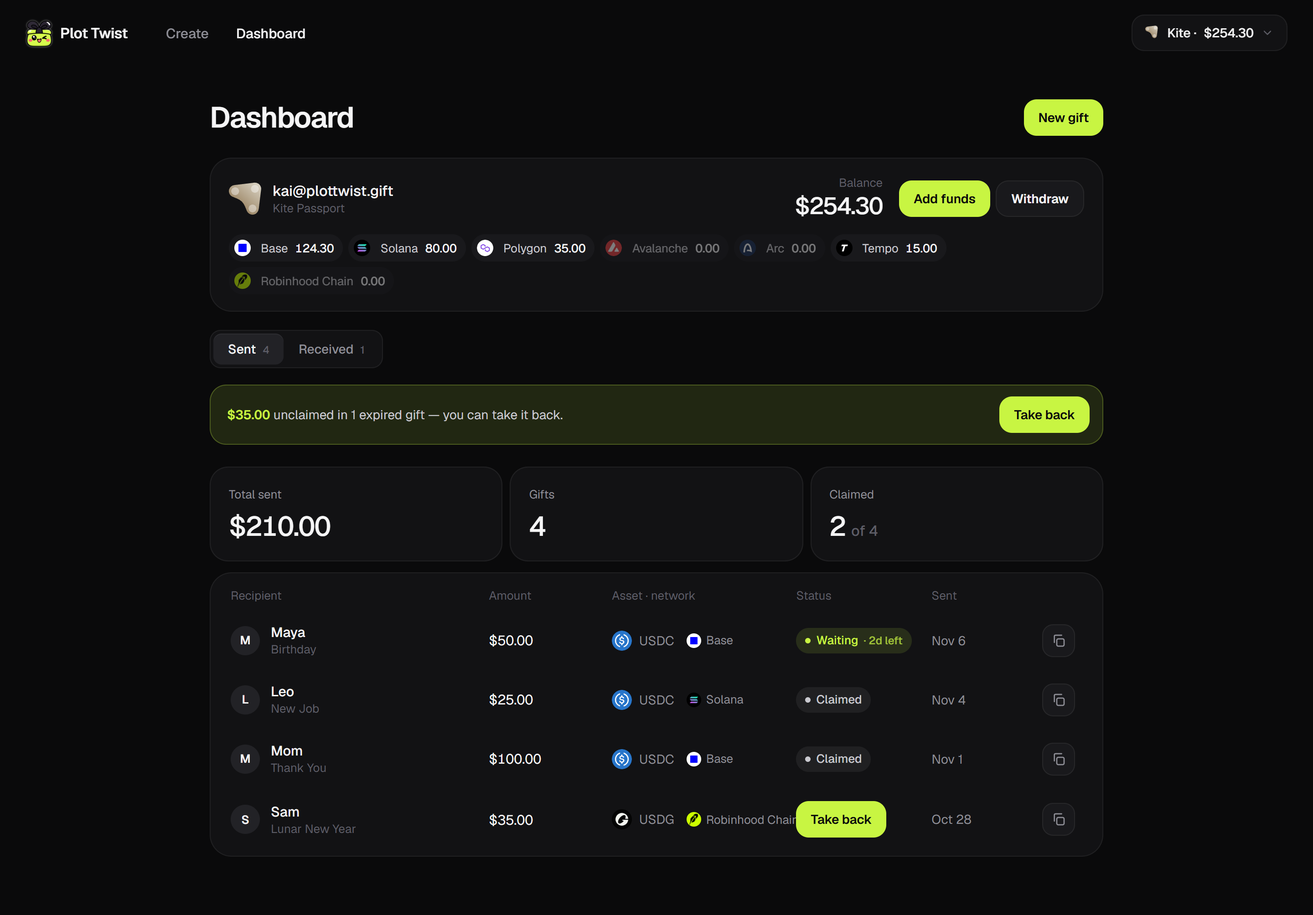
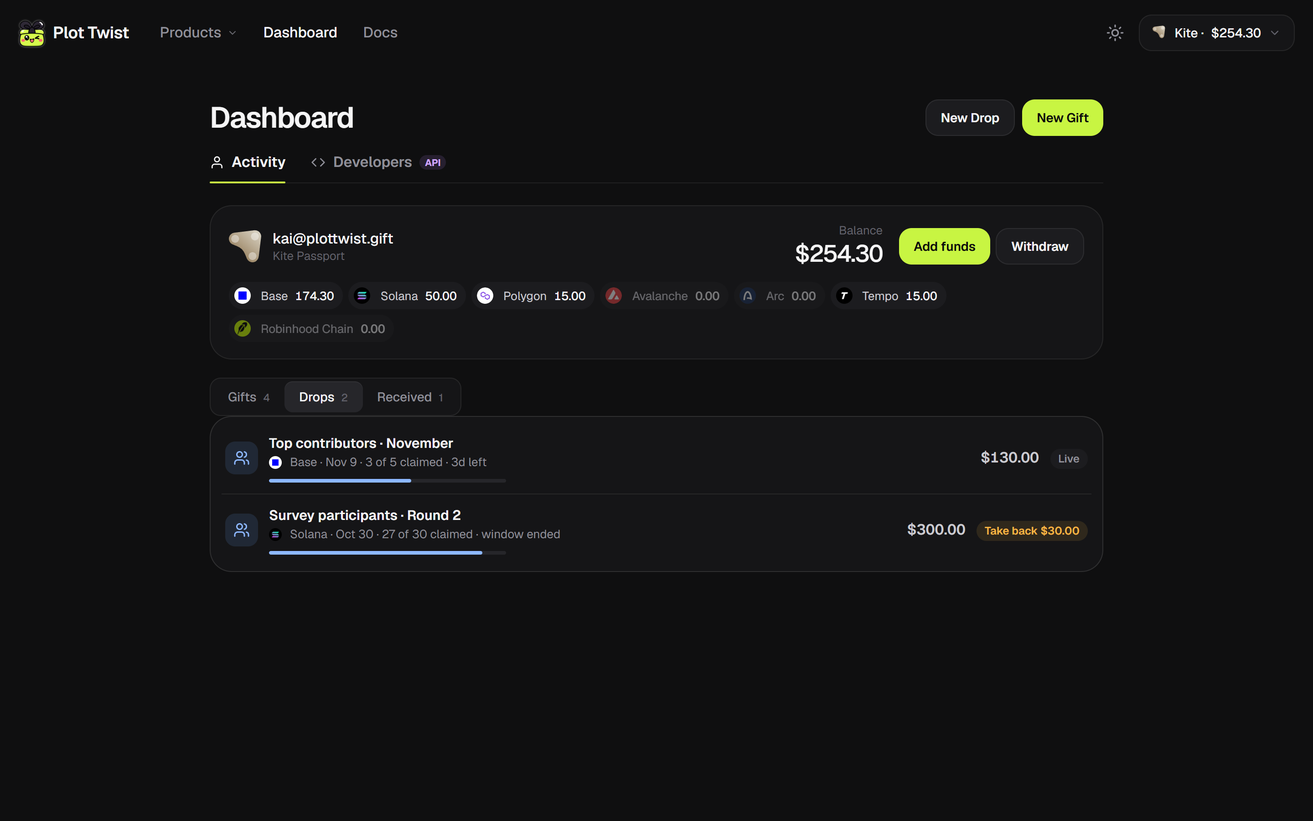
README and architecture for Gift, Drop and the Agent API
The README now leads with the three products (Gift, Drop, Agent API) and
shows the new app: home panel in both themes, the Drop table and page, the
agent approval page and Dashboard → Developers, plus the business model.
Screenshots are retaken, the architecture diagram is v2.0 (Drop and agent
flows, Redis storage, new safety rules), and the link preview and site
title use the new tagline. .env.example documents the Redis settings.

diff --git a/design/architecture-en.html b/design/architecture-en.html
@@ -2,7 +2,7 @@
 <html lang="en">
 <head>
 <meta charset="utf-8" />
-<title>Plot Twist — Architecture v1.2</title>
+<title>Plot Twist — Architecture v2.0</title>
 <link rel="preconnect" href="https://fonts.googleapis.com" />
 <link rel="preconnect" href="https://fonts.gstatic.com" crossorigin />
 <link href="https://fonts.googleapis.com/css2?family=Geist:wght@400;500;600;700&family=Geist+Mono:wght@400;500&display=swap" rel="stylesheet" />
@@ -81,6 +81,13 @@
   .vi .q { width: 22px; height: 22px; border-radius: 50%; display: grid; place-items: center; background: rgba(245, 166, 35, 0.15); color: #F5A623; font-weight: 700; font-size: 12px; }
   .foot { margin-top: 28px; font-size: 12.5px; color: var(--dim); }
   .legend span { white-space: nowrap; }
+  /* ④ flows */
+  .flows { display: grid; grid-template-columns: 1fr 1fr; gap: 16px; }
+  .flow { display: flex; flex-wrap: wrap; align-items: center; gap: 8px; margin-top: 14px; }
+  .flow span { font-size: 13px; padding: 8px 12px; border-radius: 12px; background: var(--s2); border: 1px solid var(--line2); color: var(--soft); }
+  .flow span.k { background: #F4F2EE; color: #0A0A0B; border-color: transparent; }
+  .flow span.s { border-color: rgba(200, 245, 66, 0.5); }
+  .flow em { font-style: normal; color: var(--dim); }
 </style>
 </head>
 <body>
@@ -102,7 +109,7 @@
 
   document.getElementById("page").innerHTML = `
     <div class="hd">
-      <div><h1><img src="assets/app-icon.png" alt="" />Plot Twist · Architecture v1.2</h1><p>Digital-dollar gifts on the seven networks Kite Passport holds (USDC on six, USDG on Robinhood Chain). Paid with a passkey-approved Kite transfer. One gift lives on one network.</p></div>
+      <div><h1><img src="assets/app-icon.png" alt="" />Plot Twist · Architecture v2.0</h1><p>Send money like a gift — to one person (Gift), a whole list (Drop), or through your AI agent (Agent API). Digital dollars on the seven networks Kite Passport holds; every payment is a passkey-approved Kite transfer.</p></div>
       <div class="legend"><span><i style="background:#F4F2EE"></i>Kite</span><span><i style="border:1px solid #C8F542"></i>SERV</span><span><i style="background:#222226;border:1px solid #444"></i>Plot Twist</span></div>
     </div>
 
@@ -110,7 +117,8 @@
     <div class="zones">
       <div class="zone">
         <h3>Pay · sender <small>Kai</small></h3>
-        <div class="box ours"><b>Web app (desktop + phone)</b><ul><li>Landing, Create, Dashboard</li><li>Next.js 16, one responsive design system</li></ul></div>
+        <div class="box ours"><b>Web app (desktop + phone, dark + light)</b><ul><li>Home is the app: Gift · Drop · Agent API tabs</li><li>Dashboard: Activity and Developers; Drop pages; Docs</li><li>Next.js 16 on Vercel</li></ul></div>
+        <div class="box ours"><b>Your AI agent</b><ul><li>An API key per agent; prepares Gifts and Drops through <code>/api/v1</code></li><li>The owner approves each one at <code>/approve/&lt;id&gt;</code> with their Kite passkey</li></ul></div>
         <div class="box kown"><b>${U.brand("kite")}Kite Passport</b><ul>
           <li>Email-code sign-in; new users sign up and create a passkey on Kite</li>
           <li>Stablecoin balance on each of the seven networks</li>
@@ -121,24 +129,30 @@
         <h3>Fulfil · Plot Twist platform <small>us</small></h3>
         <div class="box serv"><b><span class="brand os">${window.BRAND.openserv}</span>SERV Reasoning</b><ul>
           <li>One sentence → recipient, occasion, amount, network (if named) and a note — strict JSON schema</li>
+          <li>Drop: a pasted list or a description → a table with a note per person (batches of 25)</li>
           <li>Note rewrites; answers the recipient's questions ("What is USDC?"), no investment advice</li></ul></div>
-        <div class="box ours"><b>Gift API</b><ul>
+        <div class="box ours"><b>Gift &amp; Drop API</b><ul>
           <li>Creates the gift and asks Kite for the transfer; polls it and verifies it on-chain → <code>sealed</code></li>
-          <li>Claim with a signed message; take-back after the claim window</li>
-          <li>Dashboard: sent / received, linked wallets</li></ul></div>
+          <li>A Drop is one Kite transfer for N ordinary gifts; leftovers come back in one transfer</li>
+          <li>Claim with a signed message or a pasted address; take-back after the claim window</li></ul></div>
+        <div class="box ours"><b>Agent API</b><ul>
+          <li>Hashed, revocable keys; rate limits and usage per key per day</li>
+          <li>REST + OpenAI-style tool schema; MCP server coming soon</li>
+          <li>Free to call — the fee applies only when the owner approves and pays</li></ul></div>
         <div class="box ours"><b>Treasury (platform wallets)</b><ul>
           <li>One address per network: gift payments land here, recipients are paid from here (gas covered)</li>
           <li>Payouts are recorded the moment they're broadcast — never paid twice</li>
           <li>v2: on-chain escrow contracts</li></ul></div>
-        <div class="box ours"><b>Storage</b><ul><li>Gifts, sessions (Kite token encrypted server-side), accounts and linked wallets</li></ul></div>
+        <div class="box ours"><b>Storage · Upstash Redis</b><ul><li>Gifts, Drops, sessions (Kite token encrypted), accounts, API keys, agent requests, usage counters</li><li>Compare-and-set updates; a per-network lock so payouts never reuse a nonce</li></ul></div>
       </div>
       <div class="zone">
         <h3>Receive · recipient <small>Maya</small></h3>
-        <div class="box ours"><b>Gift page (desktop + phone)</b><ul><li>Sealed → reveal → ask SERV → connect wallet → claim</li></ul></div>
+        <div class="box ours"><b>Gift page (desktop + phone)</b><ul><li>Sealed → reveal → ask SERV → claim</li><li>Every Drop recipient gets the same page with their own note</li></ul></div>
         <div class="box ours"><b>Recipient wallet (no Kite needed)</b><ul>
           <li>EVM: MetaMask, Coinbase Wallet, Trust Wallet</li>
           <li>Solana: Phantom, Solflare, Trust Wallet</li>
-          <li>On phones, deep links open the page inside the wallet's browser</li></ul></div>
+          <li>On phones, deep links open the page inside the wallet's browser</li>
+          <li>No wallet? Paste any address, e.g. an exchange deposit address</li></ul></div>
         <div class="box ours"><b>Seven networks (all native to Kite Passport)</b><div class="nets">${nets}</div></div>
       </div>
     </div>
@@ -173,13 +187,24 @@
       </div>
     </div>
 
-    <div class="sec-t">③ Gift states & safety</div>
+    <div class="sec-t">③ A Drop, and an agent</div>
+    <div class="flows">
+      <div class="card2"><h4>Drop: pay a whole list with one approval</h4>
+        <div class="flow"><span>Paste a list or describe it</span><em>→</em><span class="s">SERV builds the table + notes</span><em>→</em><span class="k">One Kite passkey for the total</span><em>→</em><span>Verify on-chain → N links</span><em>→</em><span>Each person claims</span><em>→</em><span>Take back the rest in one transfer</span></div>
+        <p>Each person is an ordinary gift with its own 128-bit link, so claim, paste-address and take-back rules are shared. A take-back locks every open gift first, then records one payout on each of them.</p></div>
+      <div class="card2"><h4>Agent API: the agent prepares, you approve</h4>
+        <div class="flow"><span>Agent: POST /api/v1/gifts or /drops</span><em>→</em><span class="s">SERV fills the gaps</span><em>→</em><span>approveUrl</span><em>→</em><span class="k">Owner approves with Kite passkey</span><em>→</em><span>Agent: GET status → link(s)</span></div>
+        <p>Kite wallet transfers always need the owner's passkey, so a key can never move money. Autonomous budgets will come through Kite sessions once Plot Twist is in Kite's service catalog.</p></div>
+    </div>
+
+    <div class="sec-t">④ States & safety</div>
     <div class="two">
       <div class="card2">
         <h4>Gift states</h4>
         <div class="sm"><span>awaiting_payment</span><em>→</em><span>sealed</span><em>→</em><span>claiming</span><em>→</em><span>claimed</span></div>
         <div class="sm"><span>sealed</span><em>→ window over →</em><span>reclaiming</span><em>→</em><span>reclaimed</span></div>
         <div class="sm"><span>awaiting_payment</span><em>→</em><span>payment_failed</span></div>
+        <div class="sm"><em>Drop:</em><span>awaiting_payment</span><em>→</em><span>live</span><em>· agent request:</em><span>pending</span><em>→</em><span>approved</span></div>
         <p>The sender picks the claim window (24h, 3d, 7d or 30d). After it, the recipient can still claim until the sender takes the gift back from the Dashboard. Only the gift amount comes back; the fee doesn't.</p>
       </div>
       <div class="card2">
@@ -189,7 +214,8 @@
           <div class="vi"><span class="q ok">✓</span><div><b>Payments verified on-chain</b>: token contract, amount, sender's Kite address; one transfer seals one gift.</div></div>
           <div class="vi"><span class="q ok">✓</span><div><b>Claims are signed</b> by the recipient's wallet over the gift code, address and a per-gift nonce.</div></div>
           <div class="vi"><span class="q ok">✓</span><div><b>No double payouts</b>: the tx hash is saved on broadcast; a gift reopens only if the transfer provably can't land.</div></div>
-          <div class="vi"><span class="q ok">✓</span><div><b>Unguessable links</b> (128-bit codes), rate limits on SERV, sign-in and claims, link previews without amounts.</div></div>
+          <div class="vi"><span class="q ok">✓</span><div><b>API keys only prepare</b>: stored as hashes, shown once, revocable; every payment waits for the owner's passkey.</div></div>
+          <div class="vi"><span class="q ok">✓</span><div><b>Unguessable links</b> (128-bit codes), rate limits on SERV, sign-in, claims and keys; pasted addresses are screened.</div></div>
         </div>
       </div>
     </div>

diff --git a/src/app/opengraph-image.tsx b/src/app/opengraph-image.tsx
@@ -1,7 +1,7 @@
 import { ImageResponse } from "next/og";
 import { asset, OG, OG_SIZE, OgFrame, ogFonts } from "@/lib/og";
 
-export const alt = "Plot Twist — every gift deserves a plot twist";
+export const alt = "Plot Twist — send money like a gift";
 export const size = OG_SIZE;
 export const contentType = "image/png";
 
@@ -13,11 +13,11 @@ export default async function Image() {
         <div style={{ display: "flex", flex: 1, alignItems: "center", justifyContent: "space-between" }}>
           <div style={{ display: "flex", flexDirection: "column" }}>
             <div style={{ display: "flex", flexDirection: "column", fontSize: 80, fontWeight: 700, letterSpacing: -3.5, lineHeight: 1.02 }}>
-              <span>Every gift deserves</span>
-              <span style={{ color: OG.accent }}>a plot twist.</span>
+              <span>Send money</span>
+              <span style={{ color: OG.accent }}>like a gift.</span>
             </div>
             <div style={{ display: "flex", marginTop: 28, fontSize: 30, color: OG.muted, fontWeight: 500 }}>
-              One sentence in. AI designs the gift. They unwrap it from a link.
+              To one person, a whole list, or through your AI agent.
             </div>
           </div>
           {/* eslint-disable-next-line @next/next/no-img-element */}

diff --git a/src/app/layout.tsx b/src/app/layout.tsx
@@ -8,8 +8,8 @@ const geistMono = Geist_Mono({ variable: "--font-geist-mono", subsets: ["latin"]
 const appUrl =
   process.env.NEXT_PUBLIC_APP_URL ||
   (process.env.VERCEL_PROJECT_PRODUCTION_URL ? `https://${process.env.VERCEL_PROJECT_PRODUCTION_URL}` : "http://localhost:3000");
-const title = "Plot Twist — Every gift deserves a plot twist";
-const description = "Describe a gift in one sentence. AI designs it, Kite Passport pays for it, and they unwrap it from a single link.";
+const title = "Plot Twist — Send money like a gift";
+const description = "Gift links for one person, Drops for a whole list, and an API for your AI agent. SERV writes the notes, Kite Passport approves every payment, they claim with any wallet.";
 
 export const metadata: Metadata = {
   metadataBase: new URL(appUrl),

diff --git a/README.md b/README.md
@@ -1,9 +1,9 @@
 <p align="center">
-  <img src="docs/images/banner.png" alt="Plot Twist — every gift deserves a plot twist" width="100%" />
+  <img src="docs/images/banner.png" alt="Plot Twist — send money like a gift" width="100%" />
 </p>
 
 <p align="center">
-  <b>Describe a gift in one sentence. AI designs it, Kite Passport pays for it, and they unwrap it from a single link.</b>
+  <b>Send money like a gift — to one person, a whole list, or through your AI agent.<br />SERV writes the notes, Kite Passport approves every payment, they claim with any wallet.</b>
 </p>
 
 <p align="center">
@@ -22,62 +22,89 @@
 
 ## What it is
 
-Sending money to someone you care about usually feels like paying an invoice. **Plot Twist turns it into a gift.**
+Sending money to someone usually feels like paying an invoice: an address, a number, no context. Plot Twist turns it into something they open — and it works the same whether you're paying one person, a whole community, or letting your AI agent do it.
 
-You type one sentence — *"Birthday gift for my sister Maya, around $50 — she just moved to Berlin."* **SERV** turns it into a gift: who it's for, the occasion, the amount and a personal note about her new city. You approve one exact transfer with your **Kite Passport** passkey. Maya gets a link that opens **sealed**. She reveals it, can ask what USDC even is, and claims it to her own wallet. We pay the gas.
+| | | |
+|---|---|---|
+| **Gift** | One person, one gift link | *"Birthday gift for my sister Maya, around $50 — she just moved to Berlin."* SERV designs it and writes the note; it opens sealed. |
+| **Drop** | A whole list, one approval | *"$25 to each of our top contributors this month."* SERV builds the table and writes everyone's note; each person gets their own link. |
+| **Agent API** | Your AI agent | Your agent prepares Gifts and Drops through the API; you approve each payment with your Kite passkey. |
 
-- **Digital dollars on seven networks** — USDC on Base, Solana, Polygon, Avalanche, Arc and Tempo, and USDG on Robinhood Chain: every network Kite Passport holds stablecoins on. One gift lives on one network: you pay and they receive on the same network.
+- **Digital dollars on seven networks** — USDC on Base, Solana, Polygon, Avalanche, Arc and Tempo, and USDG on Robinhood Chain: every network Kite Passport holds stablecoins on.
 - **No wallet setup for the sender** — sign in to Kite with an email code (new users get a Passport on the spot), top up from MetaMask / Phantom, a card or an exchange.
-- **The recipient needs no account** — any EVM or Solana wallet, or just paste an exchange deposit address; on phones, wallet deep links open the gift inside the wallet's own browser.
-- **Unclaimed gifts aren't lost** — the sender picks a claim window (24h / 3d / 7d / 30d) and can take the gift back from the Dashboard afterwards.
+- **Recipients need no account** — any EVM or Solana wallet, or just paste an exchange deposit address. Gas is on us.
+- **Nothing is lost** — every gift and Drop has a claim window (24h–30d); whatever isn't claimed can be taken back.
 
 <p align="center">
-  <img src="docs/images/landing.png" alt="Plot Twist landing page" width="100%" />
+  <img src="docs/images/home.png" alt="Plot Twist home: the Gift panel, designed by SERV" width="100%" />
+  <br /><sub>The home page is the app — one panel with Gift, Drop and Agent API.</sub>
 </p>
 
-## The sender's side
+## Gift — one person
 
-| ① One sentence → SERV designs the gift | ② Pick the network (with your Kite balance on each) |
+| ① SERV designs it from one sentence (light theme) | ② Review: what you pay, what they get |
 |:---:|:---:|
-| <img src="docs/images/create.png" alt="SERV designs the gift" /> | <img src="docs/images/networks.png" alt="Network picker with balances" /> |
-| **③ Review: what you pay, what they get** | **④ Approve one exact transfer on Kite Passport** |
-| <img src="docs/images/review.png" alt="Review" /> | <img src="docs/images/approve.png" alt="Kite Passport approval" /> |
+| <img src="docs/images/home-light.png" alt="SERV designs the gift" /> | <img src="docs/images/review.png" alt="Review" /> |
+| **③ Approve one exact transfer on Kite Passport** | **④ Verified on-chain, sealed, ready to share** |
+| <img src="docs/images/approve.png" alt="Kite Passport approval" /> | <img src="docs/images/ready.png" alt="Gift ready: link, QR code and share buttons" /> |
 
-<p align="center">
-  <img src="docs/images/ready.png" alt="Gift ready: link, QR code and share buttons" width="70%" />
-  <br /><sub>⑤ Verified on-chain, sealed, and ready to share — link, QR code, Telegram / X / WhatsApp. Link previews never show the amount.</sub>
-</p>
-
-## The recipient's side
+The recipient opens a sealed gift, reveals it, can ask SERV what USDC even is, and claims it — with a wallet, or by pasting an exchange address.
 
 | Sealed — who it's from, not what's inside | Revealed — and SERV explains what USDC is |
 |:---:|:---:|
 | <img src="docs/images/claim-sealed.png" alt="Sealed gift" /> | <img src="docs/images/claim-revealed.png" alt="Revealed gift with SERV answer" /> |
 
 <p align="center">
+  <img src="docs/images/phone-home.png" alt="Designing a gift on a phone" width="24%" />
+  &nbsp;
   <img src="docs/images/phone-sealed.png" alt="Sealed gift on a phone" width="24%" />
   &nbsp;
   <img src="docs/images/phone-claimed.png" alt="Claimed on a phone" width="24%" />
-  &nbsp;
-  <img src="docs/images/phone-create.png" alt="Creating a gift on a phone" width="24%" />
   <br /><sub>Every screen works on phones too.</sub>
 </p>
+
+## Drop — a whole list, one approval
+
+Paying twenty people shouldn't take twenty transfers and twenty wallet addresses. Paste a list (or a CSV, or just describe it), SERV builds the table and writes a personal note for each person, and **one Kite passkey approval pays for every link**.
+
+| SERV builds the table — amounts and notes stay editable | The Drop page: who claimed, copy every link, export CSV |
+|:---:|:---:|
+| <img src="docs/images/drop.png" alt="Drop panel with the table built by SERV" /> | <img src="docs/images/drop-page.png" alt="Drop page with claim progress" /> |
+
+Each person gets an ordinary gift link (same claim, paste-address and take-back rules). After the claim window, everything that's unclaimed comes back in **one** transfer. Made for community rewards, bounties and hackathon prizes, research incentives, team bonuses and red packets.
+
+## Agent API — let your agent pay people
+
+AI agents can plan, remember and decide — but paying a person still means asking for their wallet address. With one call your agent prepares a Gift or a Drop; you get an approval link and approve it with your Kite passkey; the agent picks up the claim links and delivers them.
+
+```bash
+curl -X POST https://plot-twist-zeta.vercel.app/api/v1/gifts \
+  -H "Authorization: Bearer pt_live_…" \
+  -H "Content-Type: application/json" \
+  -d '{"brief": "Birthday gift for my sister Maya, about $50 — she just moved to Berlin"}'
+# → { "id": "…", "status": "pending_approval", "approveUrl": "https://…/approve/…", "gift": { … } }
+```
+
+| Connect an agent: REST or function calling (MCP coming soon) | You review what it prepared, then approve on Kite |
+|:---:|:---:|
+| <img src="docs/images/agent-panel.png" alt="Agent API panel" /> | <img src="docs/images/agent-approve.png" alt="Approval page for an agent request" /> |
+
+<p align="center">
+  <img src="docs/images/developers.png" alt="Dashboard → Developers: API usage, keys and recent requests" width="85%" />
+  <br /><sub>Dashboard → Developers: usage per key per day, what agents prepared and you approved, keys shown once and revocable.</sub>
+</p>
+
+- **A key can only prepare.** Kite wallet transfers always need the owner's passkey, so an API key can never move money. Keys are stored as hashes, shown once and revocable, with a rate limit each.
+- **Endpoints:** `POST /api/v1/gifts`, `POST /api/v1/drops`, `GET /api/v1/{gifts|drops}/{id}`, and OpenAI-style tool definitions at `GET /api/v1/schema`. Full reference in the app at [`/docs`](https://plot-twist-zeta.vercel.app/docs).
+- **Free to call.** Plot Twist earns its usual fee only when you approve and pay.
 
 ## Dashboard
 
 <p align="center">
-  <img src="docs/images/dashboard.png" alt="Dashboard: Kite balances, sent and received gifts, take back" width="85%" />
+  <img src="docs/images/dashboard.png" alt="Dashboard: Kite balances, gifts, Drops and received" width="85%" />
 </p>
 
-Your Kite Passport at a glance — balance on each network, **Add funds** and **Withdraw** — plus every gift you've sent (waiting, claimed, or ready to take back) and every gift you've received, whether you claimed it while signed in or on a wallet you linked.
-
-## Meet the gift box
-
-<p align="center">
-  <img src="docs/images/mascots.png" alt="The Plot Twist mascot in every mood" width="100%" />
-</p>
-
-One mascot carries the whole story: it keeps the secret while the gift is sealed, bursts open on the reveal and celebrates the claim. Every visual comes from a single design system — dark, quiet, one lime accent — shared by the app and the clickable prototype in [`design/`](design).
+**Activity** — your Kite Passport (balance per network, **Add funds**, **Withdraw**), every gift and Drop you sent with its claim status and take-back, and everything you received. **Developers** — the Agent API, shown above.
 
 ## How it works
 
@@ -94,21 +121,21 @@ sequenceDiagram
     Kai->>App: "Birthday gift for my sister Maya, ~$50 — she just moved to Berlin"
     App->>SERV: design (strict JSON schema)
     SERV-->>App: Maya · Birthday · $50 · Base · note
-    Kai->>App: connect Kite (email code), tweak, pick a claim window
+    Kai->>App: tweak, pick a claim window, Send with Kite
     App->>Kite: transfer $50 + fee → platform address (same network)
     Kite-->>Kai: approval page — one passkey tap
     Kite->>Chain: USDC transfer
     App->>Chain: verify token, amount, sender → gift sealed
     App-->>Kai: link + QR code
     Kai->>Maya: share the link
-    Maya->>App: reveal, ask SERV, sign a claim message with her wallet
+    Maya->>App: reveal, ask SERV, claim (wallet signature or pasted address)
     App->>Chain: send 50 USDC to Maya (gas covered)
-    Note over Kai,App: Not claimed in time? Kai takes it back from the Dashboard.
+    Note over Kai,App: A Drop is the same with one transfer for N links.<br/>An agent's request waits for Kai's approval first.
 ```
 
 <p align="center">
-  <img src="docs/images/architecture.png" alt="Architecture: components, end-to-end sequence, gift states and safety" width="100%" />
-  <br /><sub>Full architecture — components, the end-to-end sequence, gift states and safety. Source: <a href="design/architecture-en.html"><code>design/architecture-en.html</code></a></sub>
+  <img src="docs/images/architecture.png" alt="Architecture: components, the end-to-end gift, Drop and Agent flows, states and safety" width="100%" />
+  <br /><sub>Full architecture — source: <a href="design/architecture-en.html"><code>design/architecture-en.html</code></a></sub>
 </p>
 
 ### Where Kite Passport comes in
@@ -118,26 +145,39 @@ Plot Twist acts as the sender's agent on Kite Passport, through Kite's HTTP API 
 | | |
 |---|---|
 | **Sign in / sign up** | Email code; new emails go through Kite sign-up, where the passkey is created |
-| **Balances** | Stablecoin balance on each of the seven networks, shown while you design the gift |
-| **Pay** | One wallet transfer per gift — gift + fee to the platform address — approved with a passkey on Kite's own page. Plot Twist never holds the sender's keys |
-| **Top up** | From the sender's own wallet straight into their Kite address, by card on Kite, or from an exchange |
-| **Withdraw** | Back out of Kite to any wallet, again passkey-approved |
+| **Balances** | Stablecoin balance on each of the seven networks, shown in the panel |
+| **Pay** | One wallet transfer per Gift or Drop — amount + fee to the platform address — approved with a passkey on Kite's own page. Plot Twist never holds the sender's keys |
+| **Agents** | An agent's request becomes a payment only when the owner approves it with their own Kite session and passkey |
+| **Top up / withdraw** | From the sender's own wallet into their Kite address, by card on Kite or from an exchange; back out to any wallet, passkey-approved |
 
 ### Where SERV comes in
 
-SERV Reasoning (OpenAI-compatible API, `serv-mini`) is the gift's designer and its voice (`src/lib/serv.ts`):
+SERV Reasoning (OpenAI-compatible API, `serv-mini`, `src/lib/serv.ts`) is the designer and the voice:
 
-- **Design** — one sentence in any language → recipient, occasion, amount, network (only if you named one) and a note in your language, returned through a strict JSON schema. Everything stays editable.
-- **Rewrite** — a fresh take on the note with one tap.
-- **Ask about this gift** — answers the recipient's questions ("What is USDC?", "What can I do with it?") in the gift's context, with no investment advice.
+- **Design a gift** — one sentence in any language → recipient, occasion, amount, network (only if you named one) and a note in your language, through a strict JSON schema.
+- **Build a Drop** — a pasted list is parsed locally; a description is turned into a list; SERV writes a note for each person (in batches of 25) and names the Drop.
+- **Fill in for agents** — the Agent API lets an agent send just a brief; SERV designs the rest.
+- **Rewrite and answer** — a fresh take on a note with one tap, and answers to the recipient's questions ("What is USDC?") without investment advice.
+
+### Business model
+
+Gifts bring people in — every gift turns its recipient into someone who has seen the product work. Drops and the Agent API are where the volume is: communities, teams, researchers and agents paying people again and again.
+
+| | Fee | Minimum |
+|---|---|---|
+| Gift | 1.5% | $0.25 ($0.50 on Solana, where we pay the recipient's token-account rent) |
+| Drop | 1% per recipient | $0.10 ($0.40 on Solana) |
+| Agent API | Free to call — the Gift / Drop fee applies when the owner pays | |
+
+Claiming is always free and every payout's gas is covered.
 
 ### Safety by design
 
-- **Passkey on every transfer**, approved on Kite — one amount, one network, one recipient.
-- **Payments verified on-chain**: token contract, amount and the sender's own Kite address; one transfer can seal only one gift.
-- **Claims to a connected wallet are signed** by it (EIP-191 / ERC-1271 on EVM, ed25519 on Solana) over the gift code, the address and a per-gift nonce. **Pasted addresses** are checksum-validated and screened, so a gift can't go to the platform address, the token contract or a Solana token account.
-- **No double payouts**: a payout's hash is saved the moment it's broadcast, and a gift only reopens when the transfer provably can't land. Payouts on a network go out one at a time.
-- **Unguessable links** (128-bit codes), rate limits on SERV, Kite sign-in and claims, the Kite session encrypted server-side, and link previews without amounts.
+- **Passkey on every payment**, approved on Kite — one amount, one network, one destination.
+- **Payments verified on-chain**: token contract, amount and the sender's own Kite address; one transfer can pay for only one gift or Drop.
+- **Claims to a connected wallet are signed** (EIP-191 / ERC-1271 on EVM, ed25519 on Solana) over the gift code, the address and a per-gift nonce. **Pasted addresses** are checksum-validated and screened, so a gift can't go to the platform address, the token contract or a Solana token account.
+- **No double payouts**: a payout's hash is saved the moment it's broadcast and a gift only reopens when the transfer provably can't land. Payouts on a network go out one at a time behind a Redis lock, so instances never reuse a nonce; a Drop's take-back locks every open gift first.
+- **Unguessable links** (128-bit codes), rate limits on SERV, Kite sign-in, claims and API keys, the Kite session encrypted server-side, and link previews without amounts.
 
 ## Run it locally
 
@@ -152,23 +192,26 @@ npm run wallet:new             # SESSION_SECRET + platform EVM / Solana hot wall
 npm run dev                    # http://localhost:3000
 ```
 
-To move real money, put a little gas on the platform wallets for the networks you use (e.g. ETH on Base). Gift payments land on those wallets and payouts leave from them.
+Without Redis settings, local dev stores everything in JSON files under `data/`. In production (Vercel), set `UPSTASH_REDIS_REST_URL` / `UPSTASH_REDIS_REST_TOKEN` (or connect Upstash through Vercel's integration). To move real money, put a little gas on the platform wallets for the networks you use (e.g. ETH on Base) — payments land on those wallets and payouts leave from them.
 
 ## Project layout
 
 ```
-src/app          pages (/, /create, /dashboard, /g/[code]) and API routes
-src/lib          Kite client, SERV, gifts, treasury, chains, sessions, signatures, rate limits
-src/components   UI on the design system in src/app/styles
-design/          clickable prototype, design board, architecture diagram
+src/app          pages (/, /dashboard, /drops/[id], /approve/[id], /docs, /g/[code]) and API routes (incl. /api/v1)
+src/lib          Kite client, SERV, gifts, Drops, agent requests, API keys, usage, treasury, store (Redis / files)
+src/components   home panel (Gift · Drop · Agent API), Dashboard, Drop page, claim page, on the theme in src/app/styles
+design/          clickable prototypes, the v6/v7 visual drafts, architecture diagram
 docs/            roadmap and README images
 ```
 
-**Stack:** Next.js 16 (App Router) · TypeScript · viem · @solana/web3.js · SERV Reasoning · Kite Passport API.
+**Stack:** Next.js 16 (App Router) on Vercel · Upstash Redis · TypeScript · viem · @solana/web3.js · SERV Reasoning · Kite Passport API.
 
 ## What's next
 
-Today, funds waiting to be claimed sit in a platform hot wallet. The next step is **on-chain escrow contracts**, so not even the platform can move them. After that: claiming with just an email, a **gifting autopilot** that sends birthday gifts within limits you approve once on Kite, and group gifts. See the [roadmap](docs/ROADMAP.md).
+- **MCP server** for Claude, Cursor and other MCP clients (the API panel already reserves its place).
+- **Autonomous agent budgets** — once Plot Twist is listed in Kite's service catalog, agents can pay within a weekly budget the owner approves once on Kite, instead of a tap per payment.
+- **On-chain escrow** — funds waiting to be claimed move from the platform hot wallet into escrow contracts, so not even the platform can move them.
+- **Claiming with just an email**, a **gifting autopilot**, and **group gifts**. See the [roadmap](docs/ROADMAP.md).
 
 ---
 
